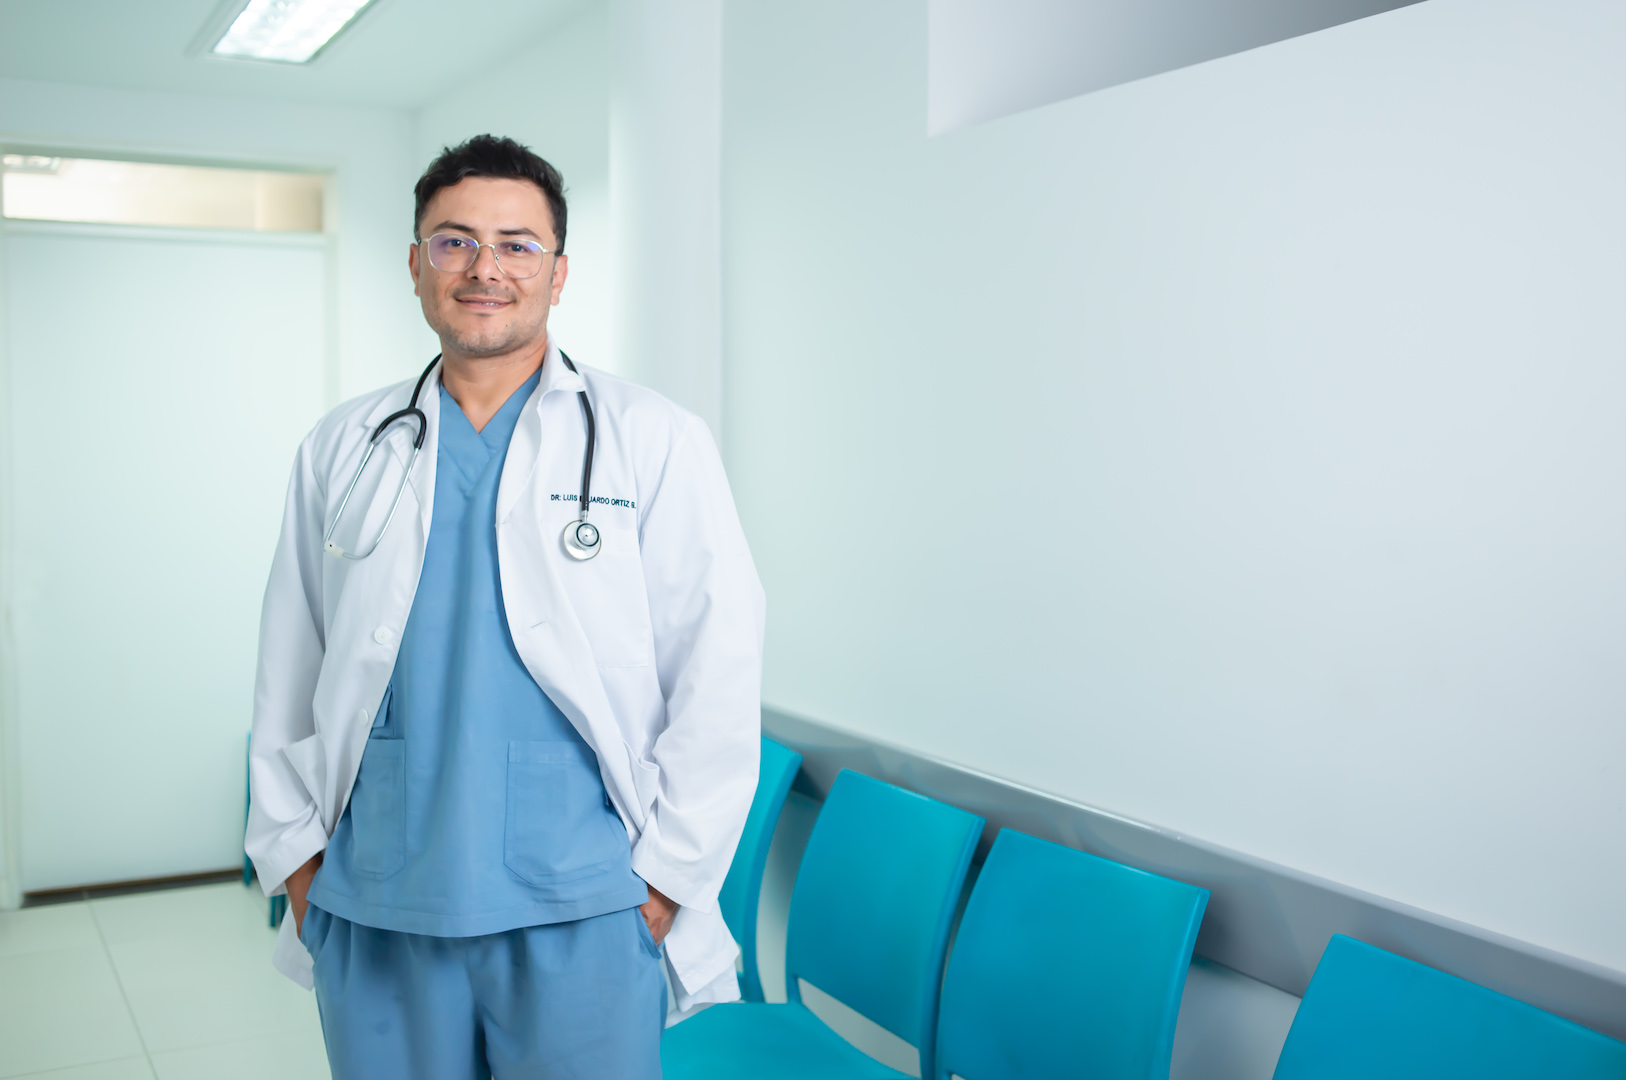
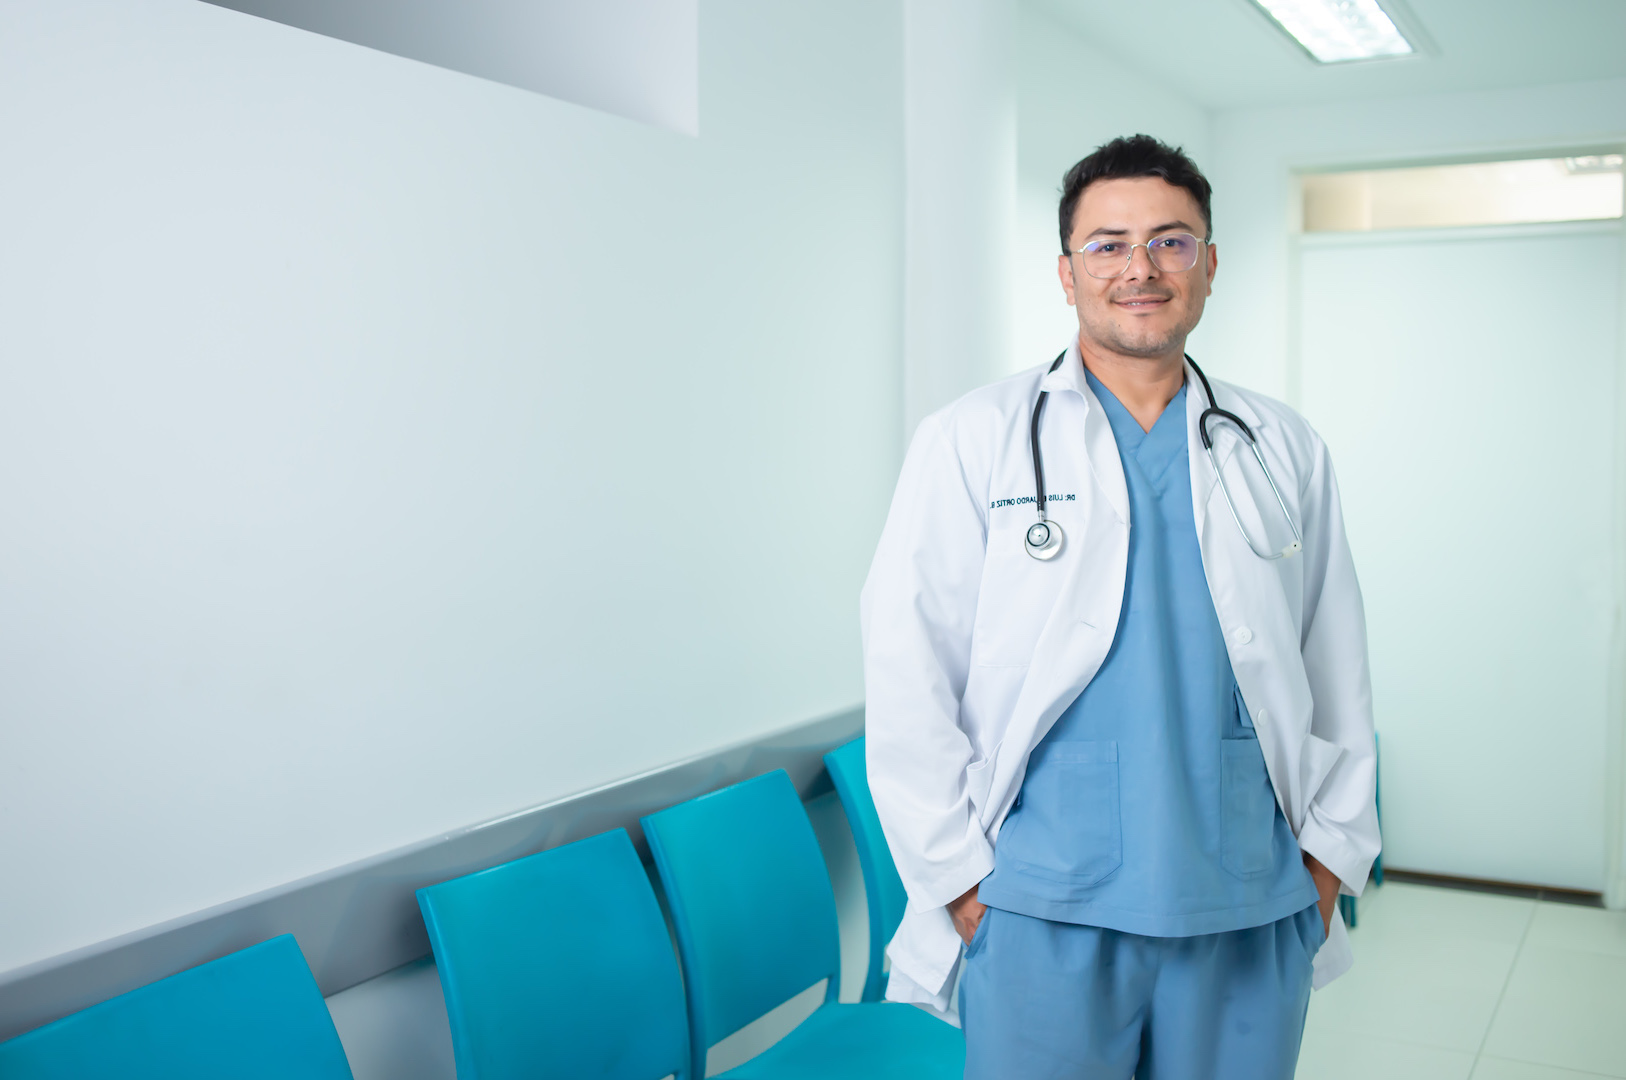
[UPDATE] Updated image flip

diff --git a/index.html b/index.html
@@ -111,7 +111,7 @@
         </div>
 
         <!-- Slide 2 -->
-        <div class="carousel-item" style="background-image: url(assets/img/slide/luchis/LO5.jpg)">
+        <div class="carousel-item" style="background-image: url(assets/img/slide/luchis/LO.jpg)">
           <div class="carousel-container">
             <div class="container d-none d-sm-block">
               <div class="row">
